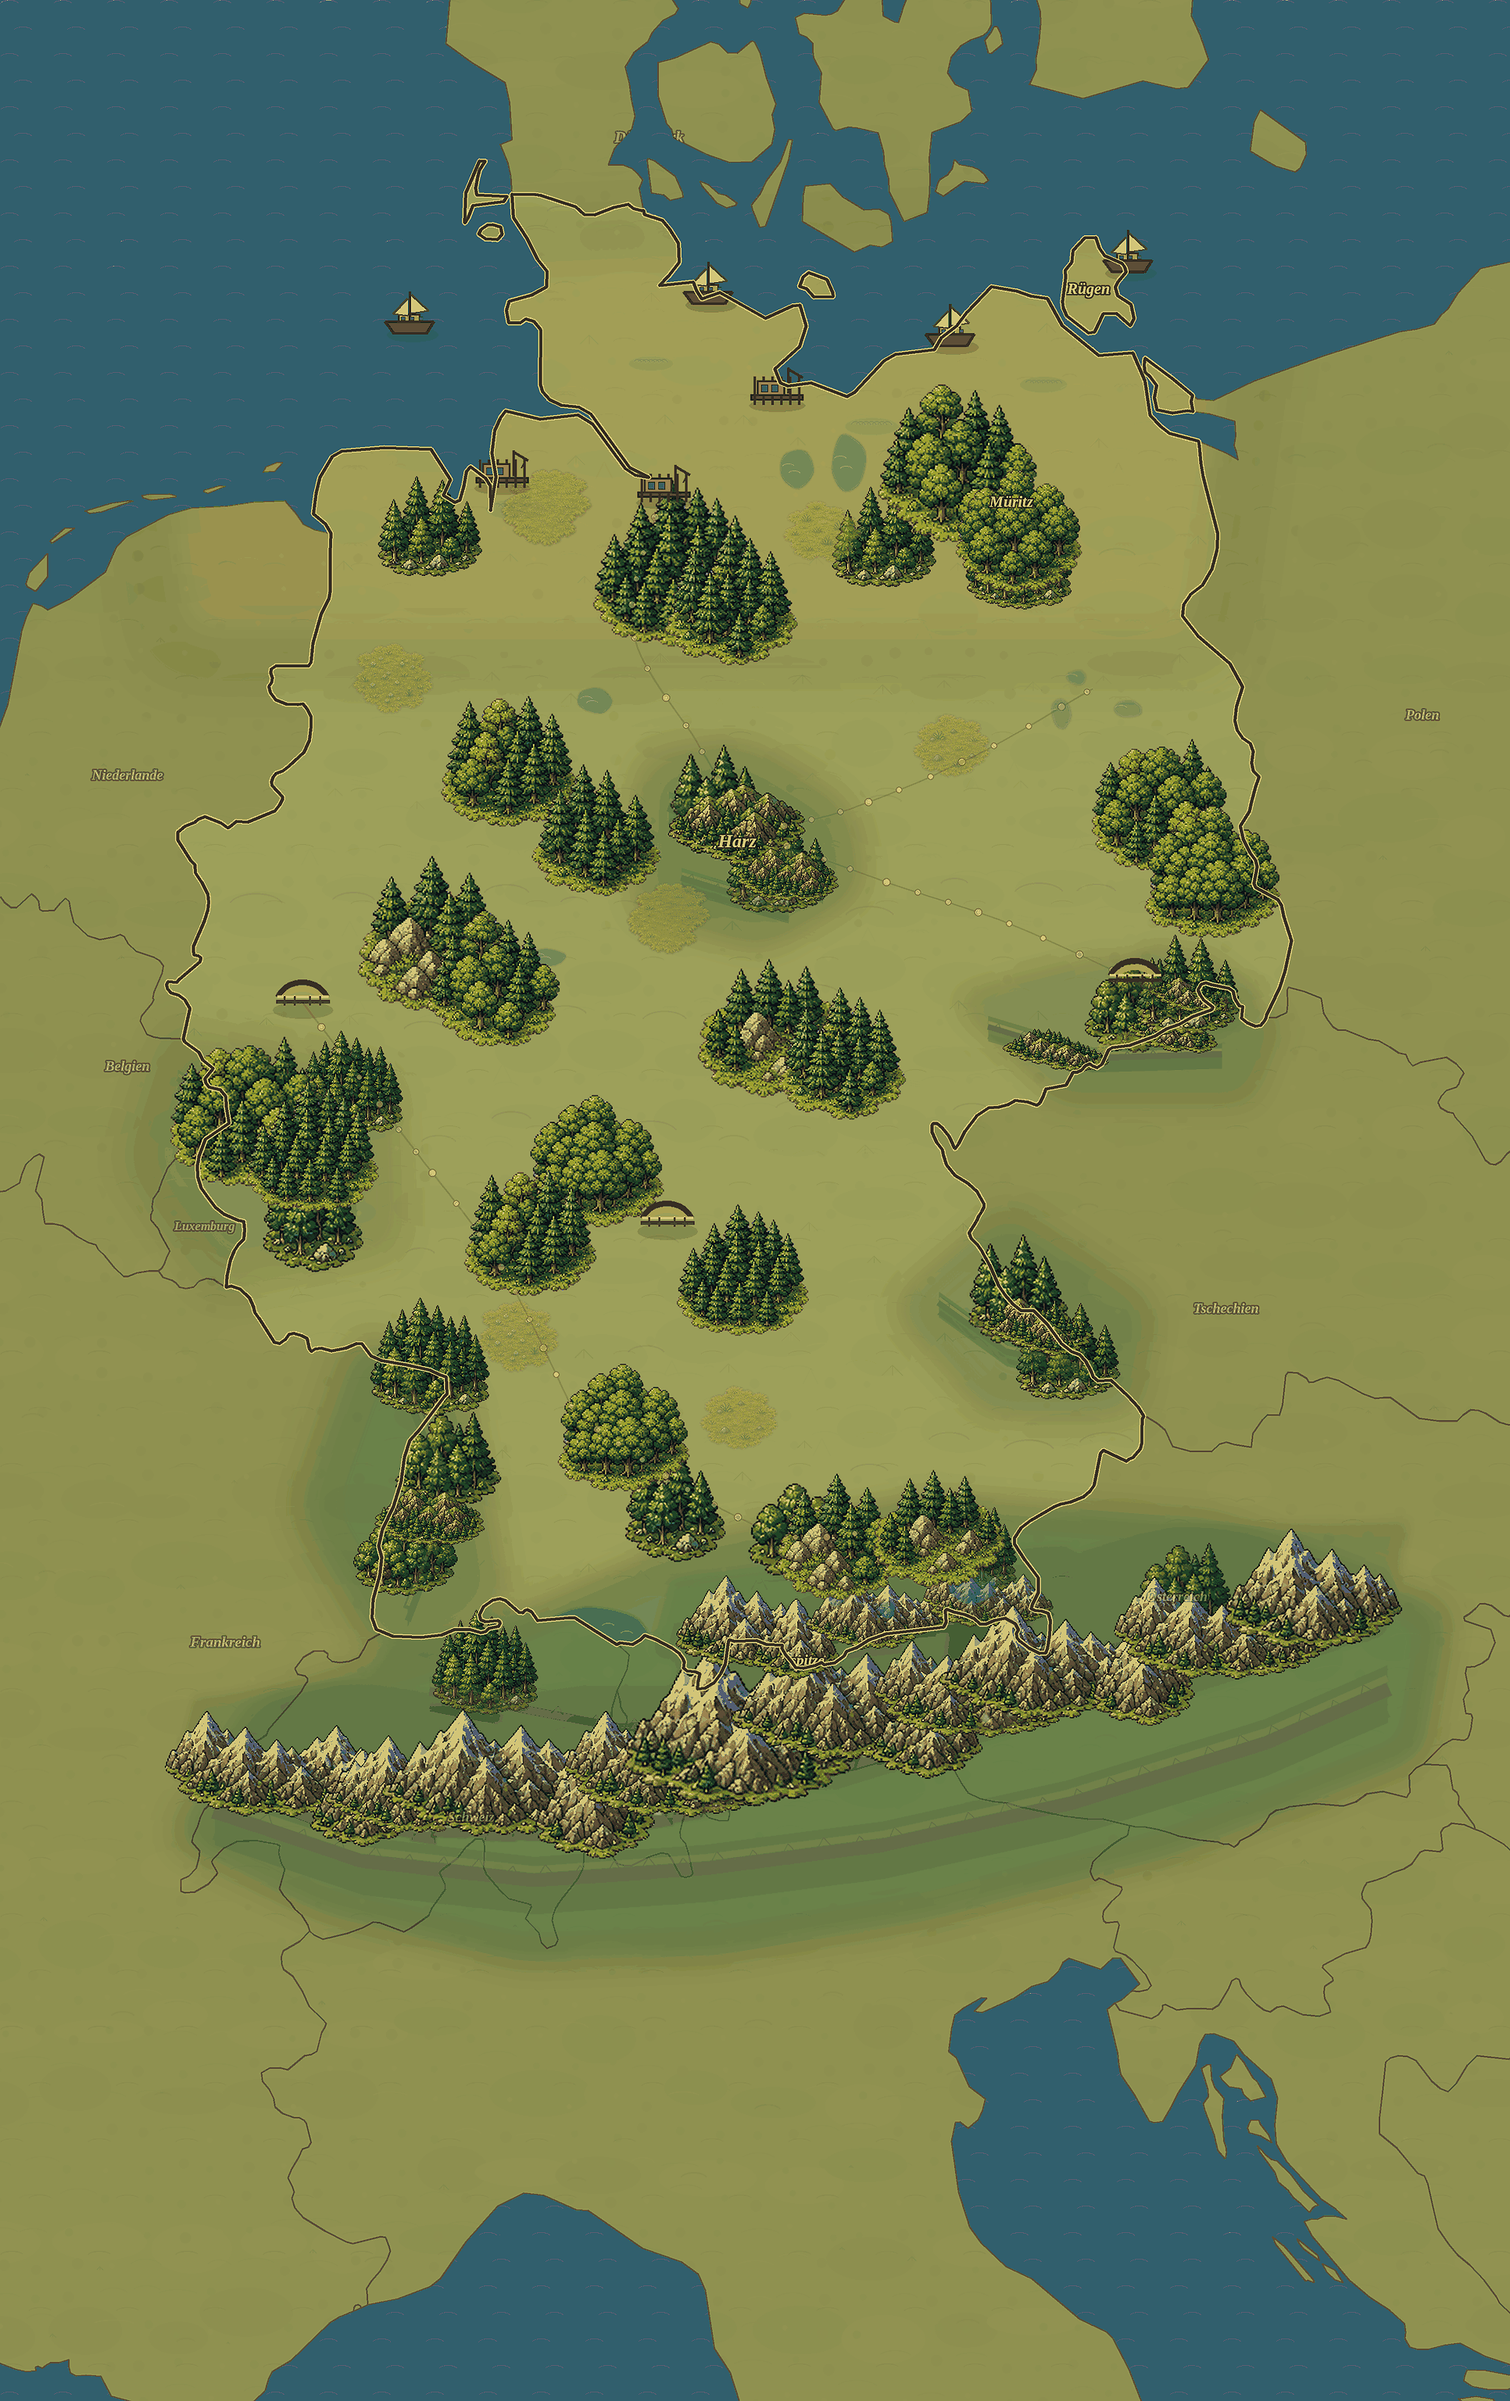
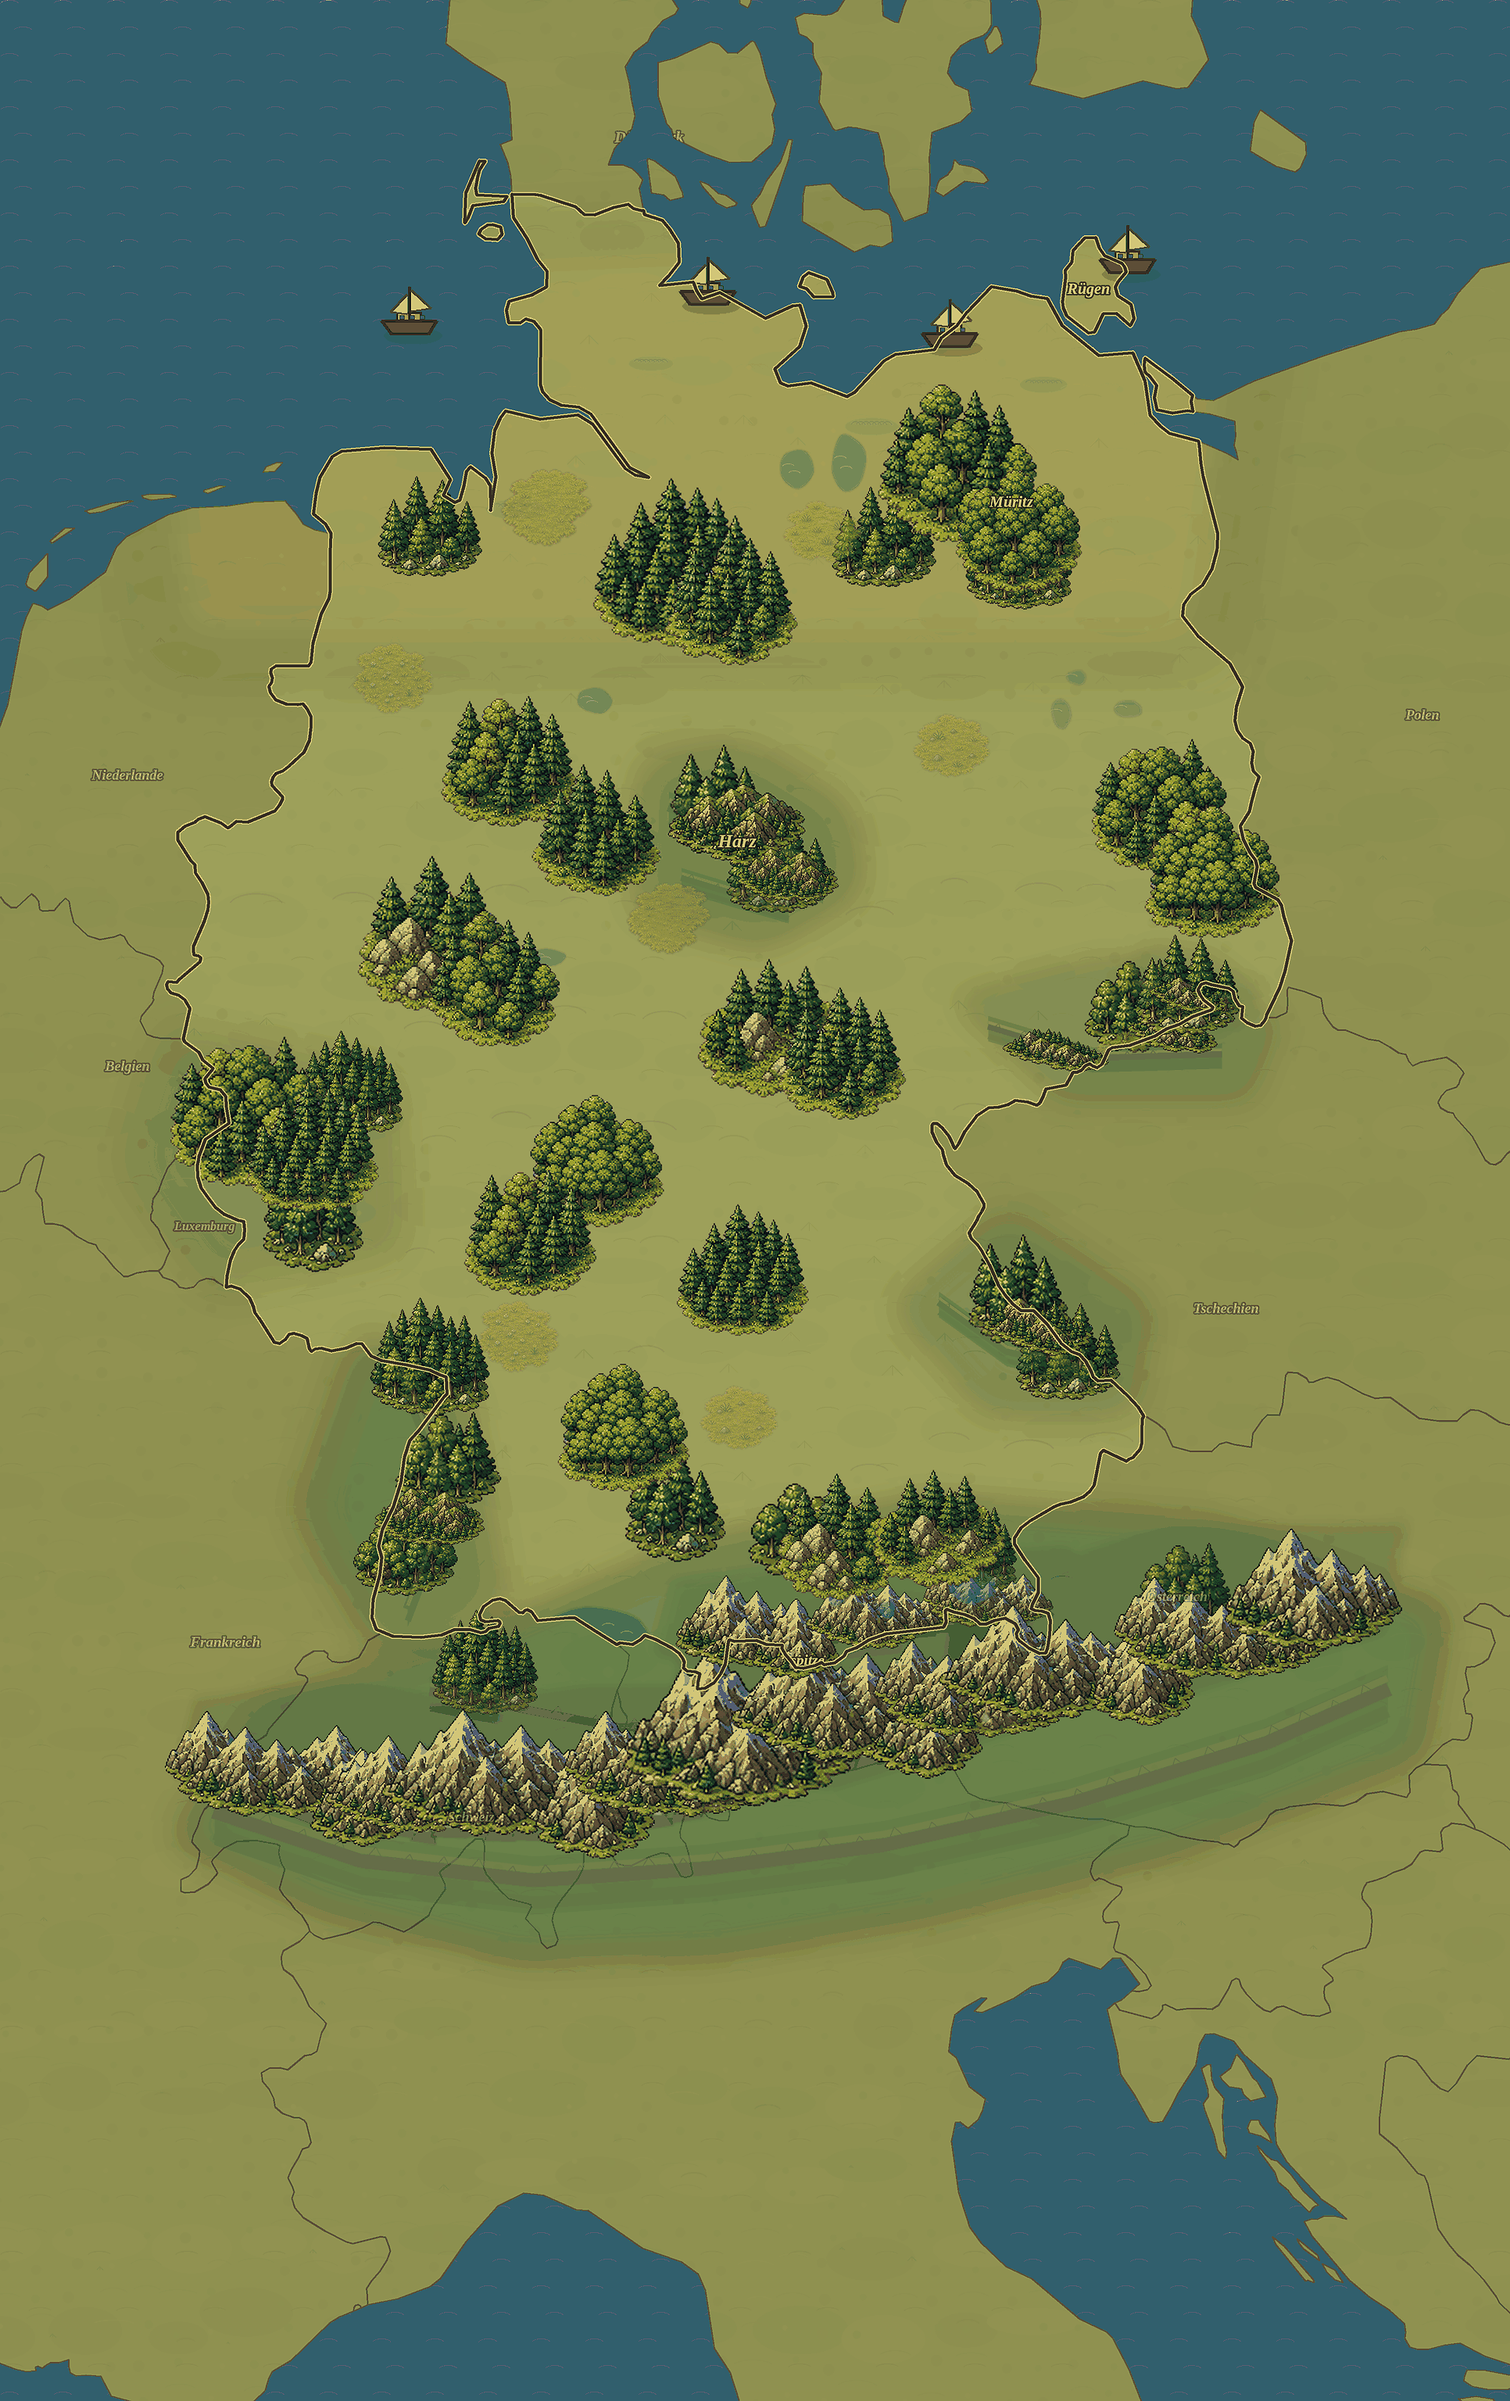
Reduce default map clutter for issue 67

diff --git a/map_pipeline/compose_map.py b/map_pipeline/compose_map.py
@@ -51,11 +51,13 @@ LAND_DETAIL_ALPHA_SCALE = 0.48
 LAND_DETAIL_TINT_STRENGTH = 0.28
 GROUND_TEXTURE_LON_STEP = 0.62
 GROUND_TEXTURE_LAT_STEP = 0.58
-INTEGRATED_LAND_PATTERN_LON_STEP = 0.42
-INTEGRATED_LAND_PATTERN_LAT_STEP = 0.38
-INTEGRATED_LAND_PATTERN_ALPHA_SCALE = 0.46
+INTEGRATED_LAND_PATTERN_LON_STEP = 0.72
+INTEGRATED_LAND_PATTERN_LAT_STEP = 0.66
+INTEGRATED_LAND_PATTERN_ALPHA_SCALE = 0.30
+INTEGRATED_LAND_PATTERN_MIN_SIZE = 22
 ATLAS_ROUTE_DOT_SPACING_SCALE = 1.75
 ATLAS_ROUTE_DOT_MIN_RADIUS = 4
+DEFAULT_ATLAS_ROUTES_ENABLED = False
 EXPORT_MASSIF_SOURCE_LAYERS = True
 MASSIF_SOURCE_MANIFEST = []
 
@@ -619,8 +621,8 @@ ATLAS_DETAIL_KIND_SCALE = {
     "watermill": 1.55,
     "windmill": 1.55,
 }
-MIN_ATLAS_DETAIL_WIDTH = 104
-DEFAULT_ATLAS_DETAIL_KINDS = {"bridge", "port", "ship"}
+MIN_ATLAS_DETAIL_WIDTH = 118
+DEFAULT_ATLAS_DETAIL_KINDS = {"ship"}
 
 
 def audit_geography_layers():
@@ -713,6 +715,8 @@ def audit_geography_layers():
             _audit_point(errors, bounds_poly, lon, lat, f"relief tree:{region['id']}")
             if _relief_tree_cluster_width(tree_size) < RELIEF_TREE_CLUSTER_MIN_WIDTH:
                 errors.append(f"relief tree cluster in {region['id']} is too small for the default map")
+    if DEFAULT_ATLAS_ROUTES_ENABLED:
+        errors.append("default atlas routes must stay hidden until route dots read above mobile screenshot scale")
     for glyph_name, lon, lat, width in ATLAS_LAND_DETAIL_PATCHES:
         _audit_point(errors, bounds_poly, lon, lat, f"land detail:{glyph_name}")
         if not str(glyph_name).startswith("atlas_land_"):
@@ -1524,7 +1528,7 @@ def _draw_integrated_land_pattern(canvas, proj, germany_mask, germany_geom):
             if germany_geom.contains(Point(point_lon, point_lat)):
                 x, y = _project_point(proj, point_lon, point_lat)
                 kind = seed % 12
-                size = 13 + ((seed >> 16) % 11)
+                size = INTEGRATED_LAND_PATTERN_MIN_SIZE + ((seed >> 16) % 11)
                 if point_lat > 52.2 and kind in (3, 4, 8):
                     kind = 1
                 if point_lat < 48.7 and kind in (0, 1, 2):
@@ -2381,7 +2385,8 @@ def main():
     _draw_named_water_bodies(canvas, proj, germany_mask)
     _draw_atlas_land_detail_patches(canvas, proj, germany_mask)
     _draw_atlas_forest_masses(canvas, proj, land_mask)
-    _draw_atlas_routes(canvas, proj, germany_mask)
+    if DEFAULT_ATLAS_ROUTES_ENABLED:
+        _draw_atlas_routes(canvas, proj, germany_mask)
     _draw_atlas_details(canvas, proj)
     _draw_neighbor_country_labels(canvas, proj, neighbor_mask)
     _draw_map_labels(canvas, proj, germany_mask)

diff --git a/tests/test_map_geography_audit.py b/tests/test_map_geography_audit.py
@@ -58,6 +58,7 @@ class MapGeographyAuditTest(unittest.TestCase):
             ATLAS_DETAILS,
             ATLAS_ROUTE_DOT_MIN_RADIUS,
             ATLAS_ROUTE_DOT_SPACING_SCALE,
+            DEFAULT_ATLAS_ROUTES_ENABLED,
             DEFAULT_ATLAS_DETAIL_KINDS,
             FOREST_CLUSTER_MIN_SOURCE_WIDTH,
             FOREST_MASS_MIN_WIDTH,
@@ -65,24 +66,29 @@ class MapGeographyAuditTest(unittest.TestCase):
             ATLAS_FOREST_MASSES,
             GROUND_TEXTURE_LAT_STEP,
             GROUND_TEXTURE_LON_STEP,
+            INTEGRATED_LAND_PATTERN_ALPHA_SCALE,
             INTEGRATED_LAND_PATTERN_LAT_STEP,
             INTEGRATED_LAND_PATTERN_LON_STEP,
+            INTEGRATED_LAND_PATTERN_MIN_SIZE,
             MIN_ATLAS_DETAIL_WIDTH,
             RELIEF_REGIONS,
             RELIEF_TREE_CLUSTER_MIN_WIDTH,
             _relief_tree_cluster_width,
         )
 
-        self.assertEqual({"bridge", "port", "ship"}, DEFAULT_ATLAS_DETAIL_KINDS)
-        self.assertGreaterEqual(MIN_ATLAS_DETAIL_WIDTH, 104)
+        self.assertEqual({"ship"}, DEFAULT_ATLAS_DETAIL_KINDS)
+        self.assertFalse(DEFAULT_ATLAS_ROUTES_ENABLED)
+        self.assertGreaterEqual(MIN_ATLAS_DETAIL_WIDTH, 118)
         for detail in ATLAS_DETAILS:
             if detail["kind"] in DEFAULT_ATLAS_DETAIL_KINDS:
-                self.assertNotIn(detail["kind"], {"castle", "chapel", "lighthouse", "ruins", "tower", "village", "watermill", "windmill"})
+                self.assertNotIn(detail["kind"], {"bridge", "castle", "chapel", "lighthouse", "port", "ruins", "tower", "village", "watermill", "windmill"})
 
         self.assertGreaterEqual(GROUND_TEXTURE_LON_STEP, 0.60)
         self.assertGreaterEqual(GROUND_TEXTURE_LAT_STEP, 0.56)
-        self.assertGreaterEqual(INTEGRATED_LAND_PATTERN_LON_STEP, 0.40)
-        self.assertGreaterEqual(INTEGRATED_LAND_PATTERN_LAT_STEP, 0.36)
+        self.assertGreaterEqual(INTEGRATED_LAND_PATTERN_LON_STEP, 0.70)
+        self.assertGreaterEqual(INTEGRATED_LAND_PATTERN_LAT_STEP, 0.64)
+        self.assertLessEqual(INTEGRATED_LAND_PATTERN_ALPHA_SCALE, 0.32)
+        self.assertGreaterEqual(INTEGRATED_LAND_PATTERN_MIN_SIZE, 22)
         self.assertGreaterEqual(ATLAS_ROUTE_DOT_SPACING_SCALE, 1.50)
         self.assertGreaterEqual(ATLAS_ROUTE_DOT_MIN_RADIUS, 4)
 

diff --git a/tests/test_map_panel_contract.py b/tests/test_map_panel_contract.py
@@ -495,8 +495,9 @@ class MapPanelContractTest(unittest.TestCase):
             "if BAKED_TOWN_DETAILS_ENABLED:",
             "for lon, lat, size in BAKED_TOWN_DETAILS:",
             "ATLAS_DETAILS = [",
-            "MIN_ATLAS_DETAIL_WIDTH = 104",
-            "DEFAULT_ATLAS_DETAIL_KINDS = {\"bridge\", \"port\", \"ship\"}",
+            "MIN_ATLAS_DETAIL_WIDTH = 118",
+            "DEFAULT_ATLAS_DETAIL_KINDS = {\"ship\"}",
+            "DEFAULT_ATLAS_ROUTES_ENABLED = False",
             "def audit_geography_layers():",
             "CITY_LANDMARK_PLACEMENT_AUDITS = [",
             '"name": "Rostock"',
@@ -531,6 +532,7 @@ class MapPanelContractTest(unittest.TestCase):
             "def _smooth_polyline(points, subdivisions=10):",
             "def _draw_atlas_dotted_route(draw, points, step):",
             "step * RENDER_SCALE * ATLAS_ROUTE_DOT_SPACING_SCALE",
+            "if DEFAULT_ATLAS_ROUTES_ENABLED:",
             "_draw_atlas_routes(canvas, proj, germany_mask)",
             "ATLAS_FOREST_MASSES = [",
             "FOREST_MASS_VISUAL_SCALE = 1.90",
@@ -542,9 +544,10 @@ class MapPanelContractTest(unittest.TestCase):
             "LAND_DETAIL_TINT_STRENGTH = 0.28",
             "GROUND_TEXTURE_LON_STEP = 0.62",
             "GROUND_TEXTURE_LAT_STEP = 0.58",
-            "INTEGRATED_LAND_PATTERN_LON_STEP = 0.42",
-            "INTEGRATED_LAND_PATTERN_LAT_STEP = 0.38",
-            "INTEGRATED_LAND_PATTERN_ALPHA_SCALE = 0.46",
+            "INTEGRATED_LAND_PATTERN_LON_STEP = 0.72",
+            "INTEGRATED_LAND_PATTERN_LAT_STEP = 0.66",
+            "INTEGRATED_LAND_PATTERN_ALPHA_SCALE = 0.30",
+            "INTEGRATED_LAND_PATTERN_MIN_SIZE = 22",
             "ATLAS_ROUTE_DOT_SPACING_SCALE = 1.75",
             "ATLAS_ROUTE_DOT_MIN_RADIUS = 4",
             '"atlas_forest_pine_dense"',
